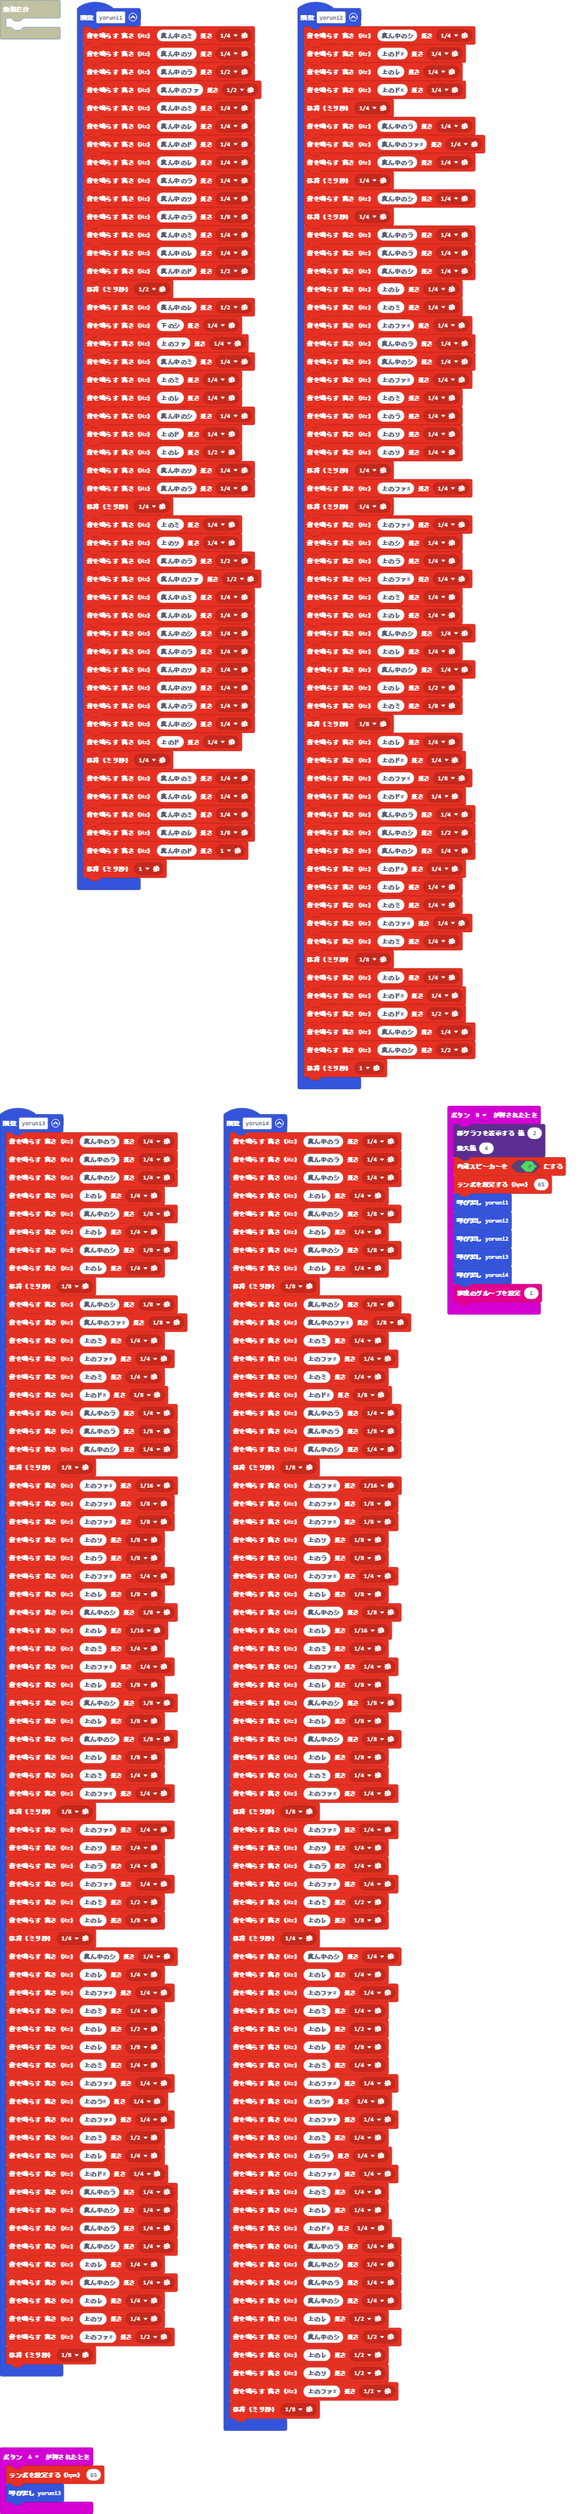
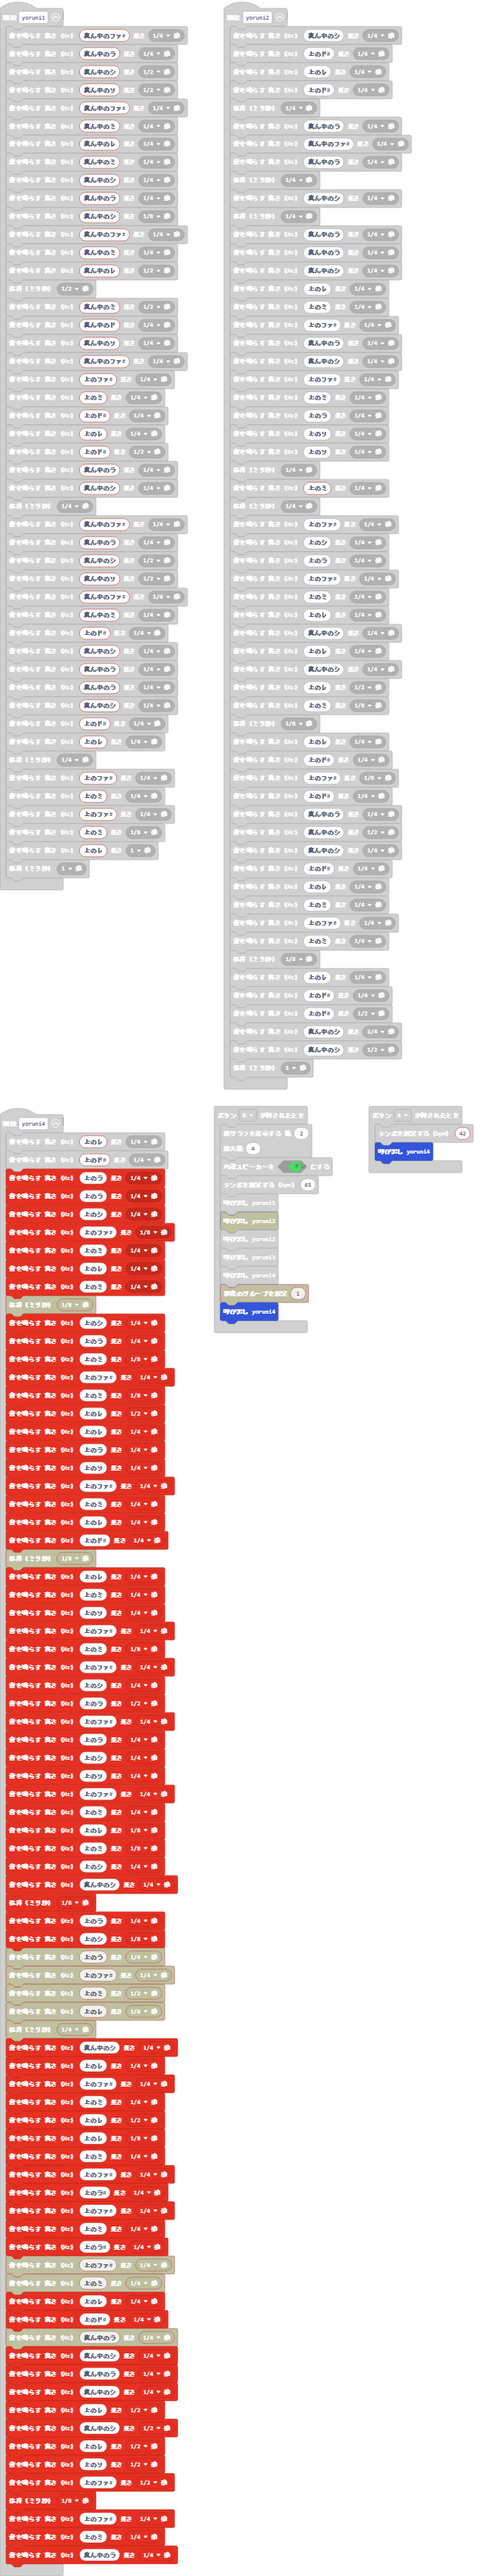
Update pxt.json, main.blocks, main.ts

diff --git a/main.ts b/main.ts
@@ -1,79 +1,51 @@
 input.onButtonPressed(Button.A, function () {
-    music.setTempo(65)
-    yoruni3()
+    music.setTempo(42)
+    yoruni4()
 })
 function yoruni4 () {
-    music.playTone(440, music.beat(BeatFraction.Quarter))
-    music.playTone(440, music.beat(BeatFraction.Quarter))
-    music.playTone(494, music.beat(BeatFraction.Quarter))
     music.playTone(587, music.beat(BeatFraction.Quarter))
-    music.playTone(494, music.beat(BeatFraction.Eighth))
-    music.playTone(587, music.beat(BeatFraction.Quarter))
-    music.playTone(494, music.beat(BeatFraction.Eighth))
-    music.playTone(587, music.beat(BeatFraction.Quarter))
-    music.rest(music.beat(BeatFraction.Eighth))
-    music.playTone(494, music.beat(BeatFraction.Eighth))
-    music.playTone(370, music.beat(BeatFraction.Eighth))
-    music.playTone(659, music.beat(BeatFraction.Quarter))
-    music.playTone(740, music.beat(BeatFraction.Quarter))
-    music.playTone(659, music.beat(BeatFraction.Quarter))
-    music.playTone(554, music.beat(BeatFraction.Eighth))
-    music.playTone(440, music.beat(BeatFraction.Quarter))
-    music.playTone(440, music.beat(BeatFraction.Eighth))
-    music.playTone(494, music.beat(BeatFraction.Quarter))
-    music.rest(music.beat(BeatFraction.Eighth))
-    music.playTone(740, music.beat(BeatFraction.Sixteenth))
-    music.playTone(740, music.beat(BeatFraction.Eighth))
-    music.playTone(740, music.beat(BeatFraction.Eighth))
-    music.playTone(784, music.beat(BeatFraction.Eighth))
-    music.playTone(880, music.beat(BeatFraction.Eighth))
-    music.playTone(740, music.beat(BeatFraction.Quarter))
-    music.playTone(587, music.beat(BeatFraction.Eighth))
-    music.playTone(494, music.beat(BeatFraction.Eighth))
-    music.playTone(587, music.beat(BeatFraction.Sixteenth))
-    music.playTone(659, music.beat(BeatFraction.Quarter))
-    music.playTone(740, music.beat(BeatFraction.Quarter))
-    music.playTone(587, music.beat(BeatFraction.Eighth))
-    music.playTone(494, music.beat(BeatFraction.Eighth))
-    music.playTone(587, music.beat(BeatFraction.Eighth))
-    music.playTone(494, music.beat(BeatFraction.Eighth))
-    music.playTone(587, music.beat(BeatFraction.Eighth))
-    music.playTone(659, music.beat(BeatFraction.Quarter))
-    music.playTone(740, music.beat(BeatFraction.Quarter))
-    music.rest(music.beat(BeatFraction.Eighth))
-    music.playTone(740, music.beat(BeatFraction.Quarter))
-    music.playTone(784, music.beat(BeatFraction.Quarter))
+    music.playTone(554, music.beat(BeatFraction.Quarter))
     music.playTone(880, music.beat(BeatFraction.Quarter))
-    music.playTone(740, music.beat(BeatFraction.Quarter))
-    music.playTone(659, music.beat(BeatFraction.Half))
-    music.playTone(587, music.beat(BeatFraction.Eighth))
-    music.rest(music.beat(BeatFraction.Quarter))
-    music.playTone(494, music.beat(BeatFraction.Quarter))
+    music.playTone(880, music.beat(BeatFraction.Quarter))
+    music.playTone(988, music.beat(BeatFraction.Quarter))
+    music.playTone(740, music.beat(BeatFraction.Eighth))
+    music.playTone(659, music.beat(BeatFraction.Quarter))
     music.playTone(587, music.beat(BeatFraction.Quarter))
-    music.playTone(740, music.beat(BeatFraction.Quarter))
     music.playTone(659, music.beat(BeatFraction.Quarter))
+    music.playTone(988, music.beat(BeatFraction.Quarter))
+    music.playTone(880, music.beat(BeatFraction.Quarter))
+    music.playTone(659, music.beat(BeatFraction.Eighth))
+    music.playTone(740, music.beat(BeatFraction.Quarter))
+    music.playTone(659, music.beat(BeatFraction.Eighth))
     music.playTone(587, music.beat(BeatFraction.Half))
-    music.playTone(587, music.beat(BeatFraction.Eighth))
-    music.playTone(659, music.beat(BeatFraction.Quarter))
-    music.playTone(740, music.beat(BeatFraction.Quarter))
-    music.playTone(932, music.beat(BeatFraction.Quarter))
-    music.playTone(740, music.beat(BeatFraction.Quarter))
-    music.playTone(659, music.beat(BeatFraction.Quarter))
-    music.playTone(932, music.beat(BeatFraction.Quarter))
+    music.playTone(587, music.beat(BeatFraction.Quarter))
+    music.playTone(880, music.beat(BeatFraction.Quarter))
+    music.playTone(784, music.beat(BeatFraction.Quarter))
     music.playTone(740, music.beat(BeatFraction.Quarter))
     music.playTone(659, music.beat(BeatFraction.Quarter))
     music.playTone(587, music.beat(BeatFraction.Quarter))
     music.playTone(554, music.beat(BeatFraction.Quarter))
-    music.playTone(440, music.beat(BeatFraction.Quarter))
+    music.playTone(587, music.beat(BeatFraction.Quarter))
+    music.playTone(659, music.beat(BeatFraction.Quarter))
+    music.playTone(784, music.beat(BeatFraction.Quarter))
+    music.playTone(740, music.beat(BeatFraction.Quarter))
+    music.playTone(659, music.beat(BeatFraction.Eighth))
+    music.playTone(740, music.beat(BeatFraction.Quarter))
+    music.playTone(988, music.beat(BeatFraction.Quarter))
+    music.playTone(880, music.beat(BeatFraction.Half))
+    music.playTone(740, music.beat(BeatFraction.Quarter))
+    music.playTone(880, music.beat(BeatFraction.Quarter))
+    music.playTone(988, music.beat(BeatFraction.Quarter))
+    music.playTone(784, music.beat(BeatFraction.Quarter))
+    music.playTone(740, music.beat(BeatFraction.Quarter))
+    music.playTone(659, music.beat(BeatFraction.Quarter))
+    music.playTone(587, music.beat(BeatFraction.Eighth))
+    music.playTone(659, music.beat(BeatFraction.Eighth))
+    music.playTone(988, music.beat(BeatFraction.Quarter))
     music.playTone(494, music.beat(BeatFraction.Quarter))
-    music.playTone(440, music.beat(BeatFraction.Quarter))
-    music.playTone(494, music.beat(BeatFraction.Quarter))
-    music.playTone(587, music.beat(BeatFraction.Half))
-    music.playTone(494, music.beat(BeatFraction.Half))
-    music.playTone(587, music.beat(BeatFraction.Half))
-    music.playTone(784, music.beat(BeatFraction.Half))
-    music.playTone(740, music.beat(BeatFraction.Half))
     music.rest(music.beat(BeatFraction.Eighth))
+    music.playTone(880, music.beat(BeatFraction.Quarter))
+    music.playTone(988, music.beat(BeatFraction.Eighth))
 }
 input.onButtonPressed(Button.B, function () {
     led.plotBarGraph(
@@ -84,58 +56,57 @@ input.onButtonPressed(Button.B, function () {
     music.setTempo(65)
     yoruni1()
     yoruni2()
-    yoruni2()
     yoruni3()
     yoruni4()
-    radio.setGroup(1)
+    yoruni4()
 })
 function yoruni1 () {
-    music.playTone(330, music.beat(BeatFraction.Quarter))
-    music.playTone(392, music.beat(BeatFraction.Quarter))
-    music.playTone(440, music.beat(BeatFraction.Half))
-    music.playTone(349, music.beat(BeatFraction.Half))
-    music.playTone(330, music.beat(BeatFraction.Quarter))
-    music.playTone(294, music.beat(BeatFraction.Quarter))
-    music.playTone(262, music.beat(BeatFraction.Quarter))
-    music.playTone(294, music.beat(BeatFraction.Quarter))
+    music.playTone(370, music.beat(BeatFraction.Quarter))
     music.playTone(440, music.beat(BeatFraction.Quarter))
-    music.playTone(392, music.beat(BeatFraction.Quarter))
-    music.playTone(440, music.beat(BeatFraction.Eighth))
+    music.playTone(494, music.beat(BeatFraction.Half))
+    music.playTone(392, music.beat(BeatFraction.Half))
+    music.playTone(370, music.beat(BeatFraction.Quarter))
     music.playTone(330, music.beat(BeatFraction.Quarter))
     music.playTone(294, music.beat(BeatFraction.Quarter))
-    music.playTone(262, music.beat(BeatFraction.Half))
-    music.rest(music.beat(BeatFraction.Half))
+    music.playTone(330, music.beat(BeatFraction.Quarter))
+    music.playTone(494, music.beat(BeatFraction.Quarter))
+    music.playTone(440, music.beat(BeatFraction.Quarter))
+    music.playTone(494, music.beat(BeatFraction.Eighth))
+    music.playTone(370, music.beat(BeatFraction.Quarter))
+    music.playTone(330, music.beat(BeatFraction.Quarter))
     music.playTone(294, music.beat(BeatFraction.Half))
-    music.playTone(247, music.beat(BeatFraction.Quarter))
-    music.playTone(698, music.beat(BeatFraction.Quarter))
-    music.playTone(330, music.beat(BeatFraction.Quarter))
+    music.rest(music.beat(BeatFraction.Half))
+    music.playTone(330, music.beat(BeatFraction.Half))
+    music.playTone(262, music.beat(BeatFraction.Quarter))
+    music.playTone(392, music.beat(BeatFraction.Quarter))
+    music.playTone(370, music.beat(BeatFraction.Quarter))
+    music.playTone(740, music.beat(BeatFraction.Quarter))
     music.playTone(659, music.beat(BeatFraction.Quarter))
+    music.playTone(554, music.beat(BeatFraction.Quarter))
     music.playTone(587, music.beat(BeatFraction.Quarter))
-    music.playTone(494, music.beat(BeatFraction.Quarter))
-    music.playTone(523, music.beat(BeatFraction.Quarter))
-    music.playTone(587, music.beat(BeatFraction.Half))
-    music.playTone(392, music.beat(BeatFraction.Quarter))
+    music.playTone(554, music.beat(BeatFraction.Half))
     music.playTone(440, music.beat(BeatFraction.Quarter))
+    music.playTone(494, music.beat(BeatFraction.Quarter))
     music.rest(music.beat(BeatFraction.Quarter))
+    music.playTone(370, music.beat(BeatFraction.Quarter))
+    music.playTone(440, music.beat(BeatFraction.Quarter))
+    music.playTone(494, music.beat(BeatFraction.Half))
+    music.playTone(392, music.beat(BeatFraction.Half))
+    music.playTone(370, music.beat(BeatFraction.Quarter))
+    music.playTone(330, music.beat(BeatFraction.Quarter))
+    music.playTone(554, music.beat(BeatFraction.Quarter))
+    music.playTone(494, music.beat(BeatFraction.Quarter))
+    music.playTone(440, music.beat(BeatFraction.Quarter))
+    music.playTone(440, music.beat(BeatFraction.Quarter))
+    music.playTone(494, music.beat(BeatFraction.Quarter))
+    music.playTone(554, music.beat(BeatFraction.Quarter))
+    music.playTone(587, music.beat(BeatFraction.Quarter))
+    music.rest(music.beat(BeatFraction.Quarter))
+    music.playTone(740, music.beat(BeatFraction.Quarter))
     music.playTone(659, music.beat(BeatFraction.Quarter))
-    music.playTone(784, music.beat(BeatFraction.Quarter))
-    music.playTone(440, music.beat(BeatFraction.Half))
-    music.playTone(349, music.beat(BeatFraction.Half))
-    music.playTone(330, music.beat(BeatFraction.Quarter))
-    music.playTone(294, music.beat(BeatFraction.Quarter))
-    music.playTone(494, music.beat(BeatFraction.Quarter))
-    music.playTone(440, music.beat(BeatFraction.Quarter))
-    music.playTone(392, music.beat(BeatFraction.Quarter))
-    music.playTone(392, music.beat(BeatFraction.Quarter))
-    music.playTone(440, music.beat(BeatFraction.Quarter))
-    music.playTone(494, music.beat(BeatFraction.Quarter))
-    music.playTone(523, music.beat(BeatFraction.Quarter))
-    music.rest(music.beat(BeatFraction.Quarter))
-    music.playTone(330, music.beat(BeatFraction.Quarter))
-    music.playTone(294, music.beat(BeatFraction.Quarter))
-    music.playTone(330, music.beat(BeatFraction.Quarter))
-    music.playTone(294, music.beat(BeatFraction.Eighth))
-    music.playTone(262, music.beat(BeatFraction.Whole))
+    music.playTone(740, music.beat(BeatFraction.Quarter))
+    music.playTone(659, music.beat(BeatFraction.Eighth))
+    music.playTone(587, music.beat(BeatFraction.Whole))
     music.rest(music.beat(BeatFraction.Whole))
 }
 function yoruni2 () {
@@ -164,7 +135,7 @@ function yoruni2 () {
     music.playTone(784, music.beat(BeatFraction.Quarter))
     music.playTone(784, music.beat(BeatFraction.Quarter))
     music.rest(music.beat(BeatFraction.Quarter))
-    music.playTone(740, music.beat(BeatFraction.Quarter))
+    music.playTone(659, music.beat(BeatFraction.Quarter))
     music.rest(music.beat(BeatFraction.Quarter))
     music.playTone(740, music.beat(BeatFraction.Quarter))
     music.playTone(988, music.beat(BeatFraction.Quarter))
